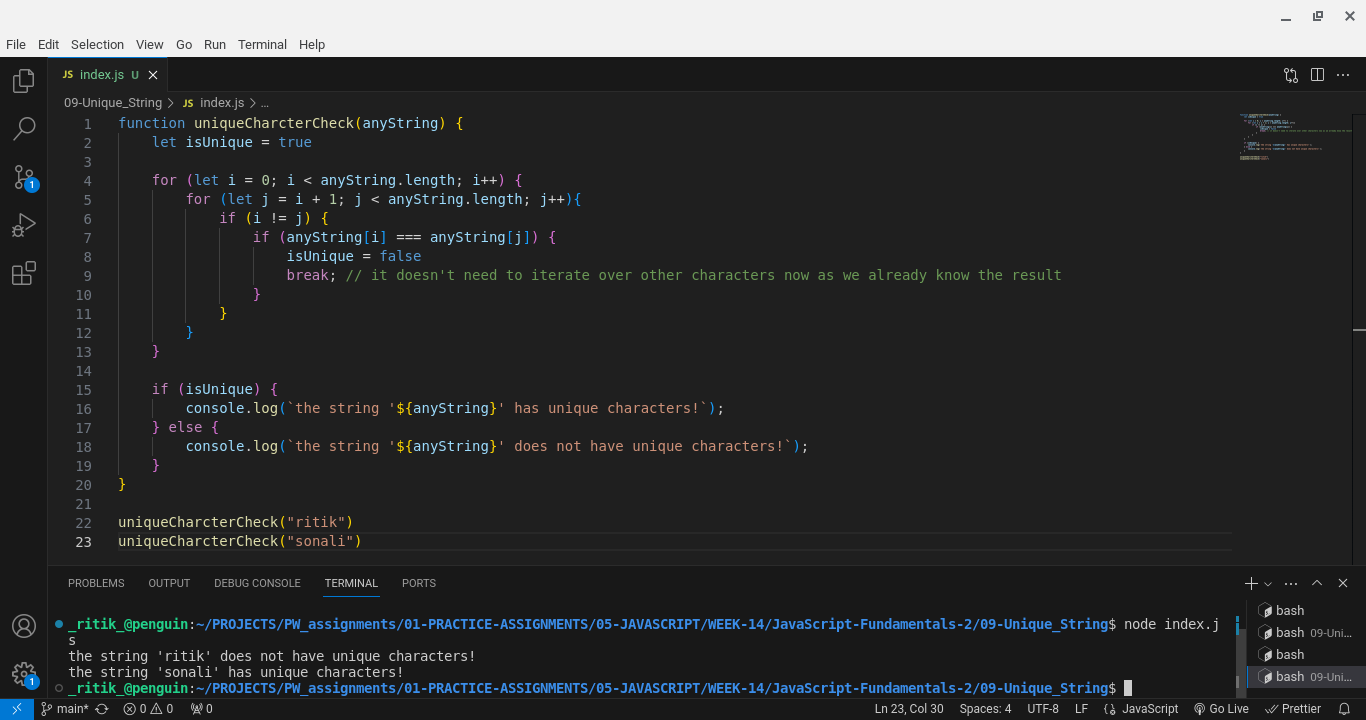
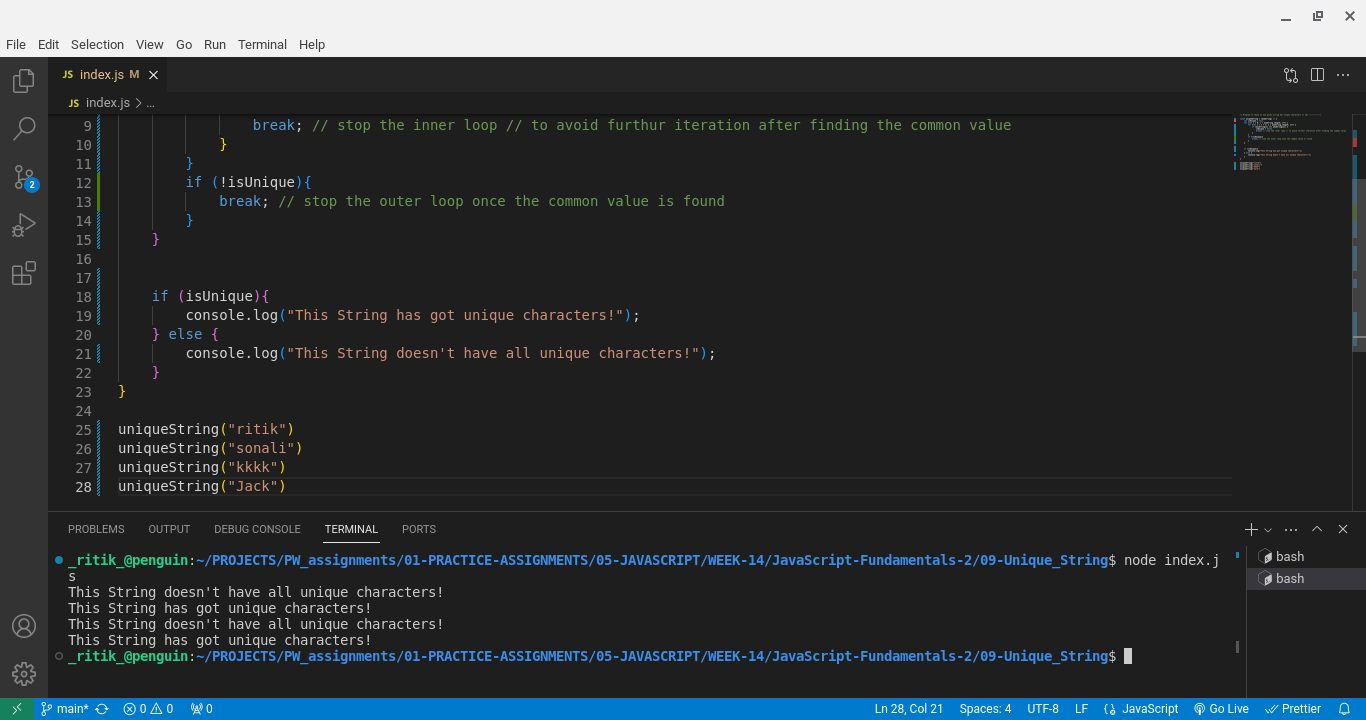
improved my code

diff --git a/01-PRACTICE-ASSIGNMENTS/05-JAVASCRIPT/WEEK-14/JavaScript-Fundamentals-2/09-Unique_String/index.js b/01-PRACTICE-ASSIGNMENTS/05-JAVASCRIPT/WEEK-14/JavaScript-Fundamentals-2/09-Unique_String/index.js
@@ -1,26 +1,28 @@
 // Program to check if any given string has unique characters or not ----------->
 
-
-function uniqueCharcterCheck(anyString) {
+const uniqueString = (anyString) => {
     let isUnique = true
-
     for (let i = 0; i < anyString.length; i++) {
-        for (let j = i + 1; j < anyString.length; j++){
-            if (i != j) {
-                if (anyString[i] === anyString[j]) {
-                    isUnique = false
-                    break; // it doesn't need to iterate over other characters now as we already know the result
-                }
+        for (let j = i + 1; j < anyString.length; j++) {
+            if (anyString[i] === anyString[j]) {
+                isUnique = false
+                break; // stop the inner loop // to avoid furthur iteration after finding the common value 
             } 
         }    
-    }
+        if (!isUnique){
+            break; // stop the outer loop once the common value is found
+        }  
+    } 
     
-    if (isUnique) {
-        console.log(`the string '${anyString}' has unique characters!`);
+
+    if (isUnique){
+        console.log("This String has got unique characters!");
     } else {
-        console.log(`the string '${anyString}' does not have unique characters!`);
+        console.log("This String doesn't have all unique characters!");
     }
 }
 
-uniqueCharcterCheck("ritik")
-uniqueCharcterCheck("sonali")
+uniqueString("ritik")
+uniqueString("sonali")
+uniqueString("kkkk")
+uniqueString("Jack")
